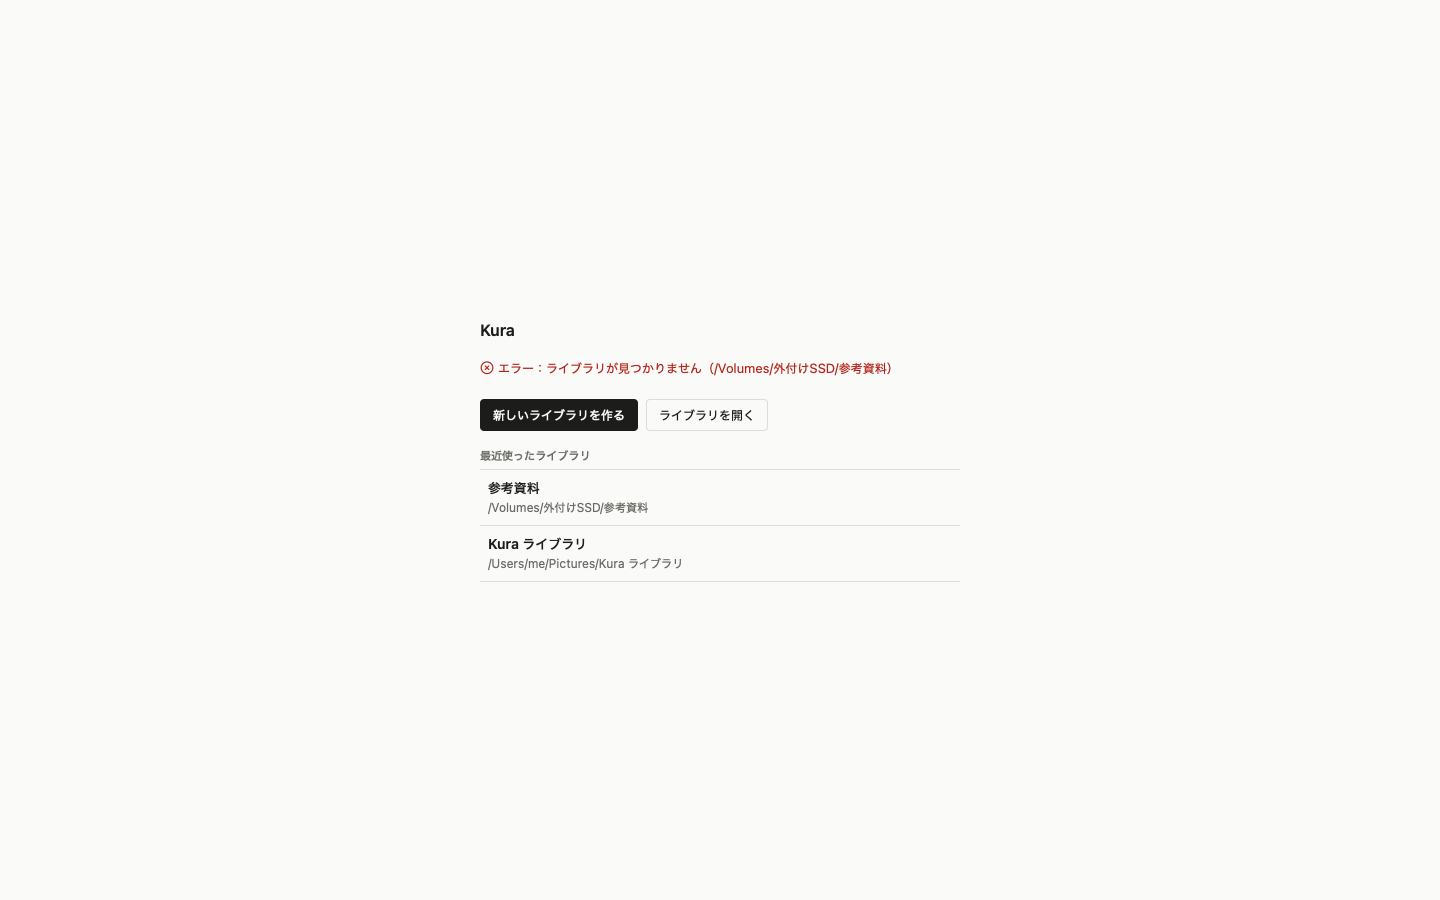
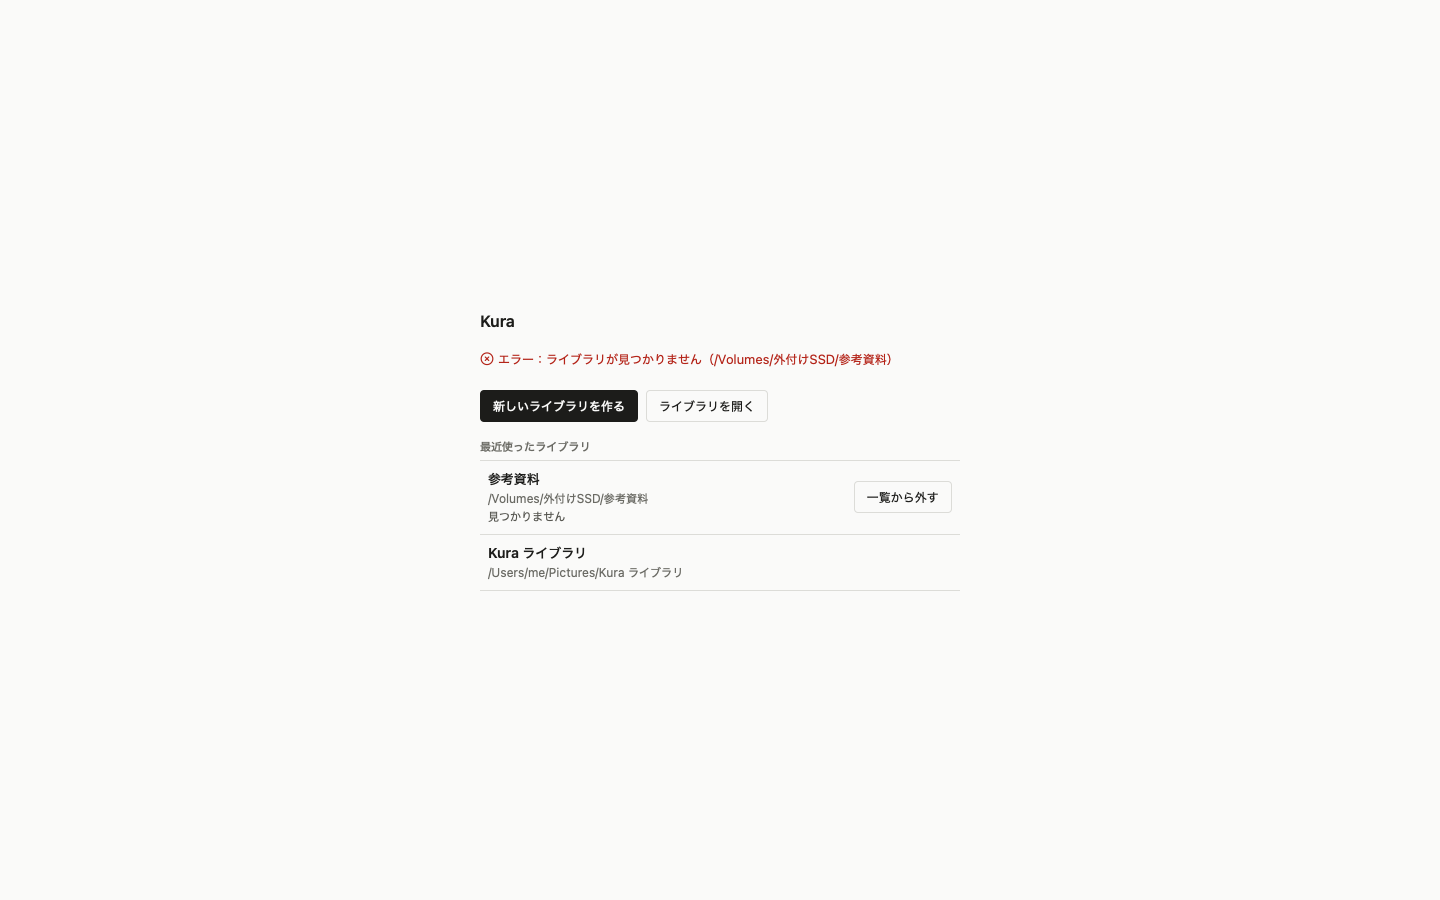
docs: 補完と一覧から外す操作のスクリーンショットと、タスク15・16で置いた決まりを書く（FR-208、FR-106）

Changed region(s): [[0.3125, 0.3733, 0.625, 0.6533], [0.5938, 0.5289, 0.6562, 0.56], [0.3125, 0.3422, 0.375, 0.3733]]

diff --git a/docs/tasks/phase2.md b/docs/tasks/phase2.md
@@ -4,7 +4,7 @@
 
 [要件定義書](../requirements.md) の5.2・5.7・6〜10章について、実装前の対話で決めた内容を作業単位に分けた一覧です。仕様は要件定義書、画面の決まりは [design.md](../design.md) を正本とします。
 
-進み具合：タスク0（試作アプリでのネイティブ機能の確認）と、タスク1（DBとRustの保存API）が終わった。どちらも `feat/phase2-idea-board` にあり、まだ main には入っていない。タスク0は [ネイティブ機能の確認](../../spikes/board-native/README.md)、タスク1は [保存APIと検証記録](phase2-task1.md) に記録。タスク2・3（ON/OFF・入口・専用ウィンドウ、ボードの作成・切り替え・名前・削除）は `feat/phase2-board-window` で実装し、統合前の確認待ち。タスク4（ギャラリーからボードに追加）は `feat/phase2-board-add` で実装し、統合前の確認待ち。タスク5（自動保存・切り替え・終了の保存待ち）は `feat/phase2-save-lifecycle` で実装し、統合前の確認待ち。タスク6・7（選択・移動・拡縮・配置を外す、パン・ズーム・表示の保存）は `feat/phase2-board-canvas` で実装し、統合前の確認待ち。タスク8（重なり順、取り消し・やり直し）は `feat/phase2-board-history` で実装し、統合前の確認待ち。タスク9・10（反転・回転・グレースケール、トリミング）は `feat/phase2-board-transforms` で実装し、統合前の確認待ち。タスク11（最前面・不透明度・位置と大きさ）は `feat/phase2-window-display` で実装し、統合前の確認待ち。タスク12（元画像の状態とギャラリー連携）は `feat/phase2-image-lifecycle` で実装し、統合前の確認待ち。タスク13・14（元URLの取得と、ブラウザで開くリンク）は `feat/phase2-source-url` で実装し、統合前の確認待ち。タスク15〜21は未着手。利用者によるマージ前の実機確認は未実施です。
+進み具合：タスク0（試作アプリでのネイティブ機能の確認）と、タスク1（DBとRustの保存API）が終わった。どちらも `feat/phase2-idea-board` にあり、まだ main には入っていない。タスク0は [ネイティブ機能の確認](../../spikes/board-native/README.md)、タスク1は [保存APIと検証記録](phase2-task1.md) に記録。タスク2・3（ON/OFF・入口・専用ウィンドウ、ボードの作成・切り替え・名前・削除）は `feat/phase2-board-window` で実装し、統合前の確認待ち。タスク4（ギャラリーからボードに追加）は `feat/phase2-board-add` で実装し、統合前の確認待ち。タスク5（自動保存・切り替え・終了の保存待ち）は `feat/phase2-save-lifecycle` で実装し、統合前の確認待ち。タスク6・7（選択・移動・拡縮・配置を外す、パン・ズーム・表示の保存）は `feat/phase2-board-canvas` で実装し、統合前の確認待ち。タスク8（重なり順、取り消し・やり直し）は `feat/phase2-board-history` で実装し、統合前の確認待ち。タスク9・10（反転・回転・グレースケール、トリミング）は `feat/phase2-board-transforms` で実装し、統合前の確認待ち。タスク11（最前面・不透明度・位置と大きさ）は `feat/phase2-window-display` で実装し、統合前の確認待ち。タスク12（元画像の状態とギャラリー連携）は `feat/phase2-image-lifecycle` で実装し、統合前の確認待ち。タスク13・14（元URLの取得と、ブラウザで開くリンク）は `feat/phase2-source-url` で実装し、統合前の確認待ち。タスク15・16（元URLの手動補完、見つからないライブラリを一覧から外す）は `feat/phase2-backfill-recent` で実装し、統合前の確認待ち。タスク17〜21は未着手。利用者によるマージ前の実機確認は未実施です。
 
 完了条件：作画中にこのアプリだけで参考画像を並べられる。利用者が [phase2-check.md](phase2-check.md) をリリース用ビルドで通しで確認する。
 
